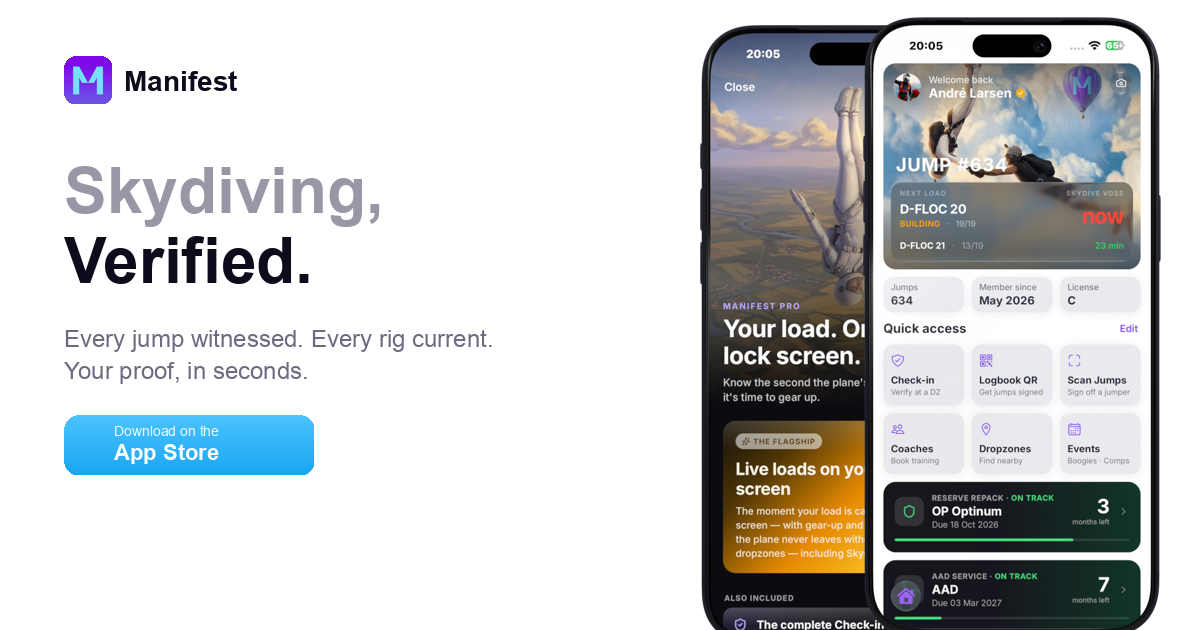
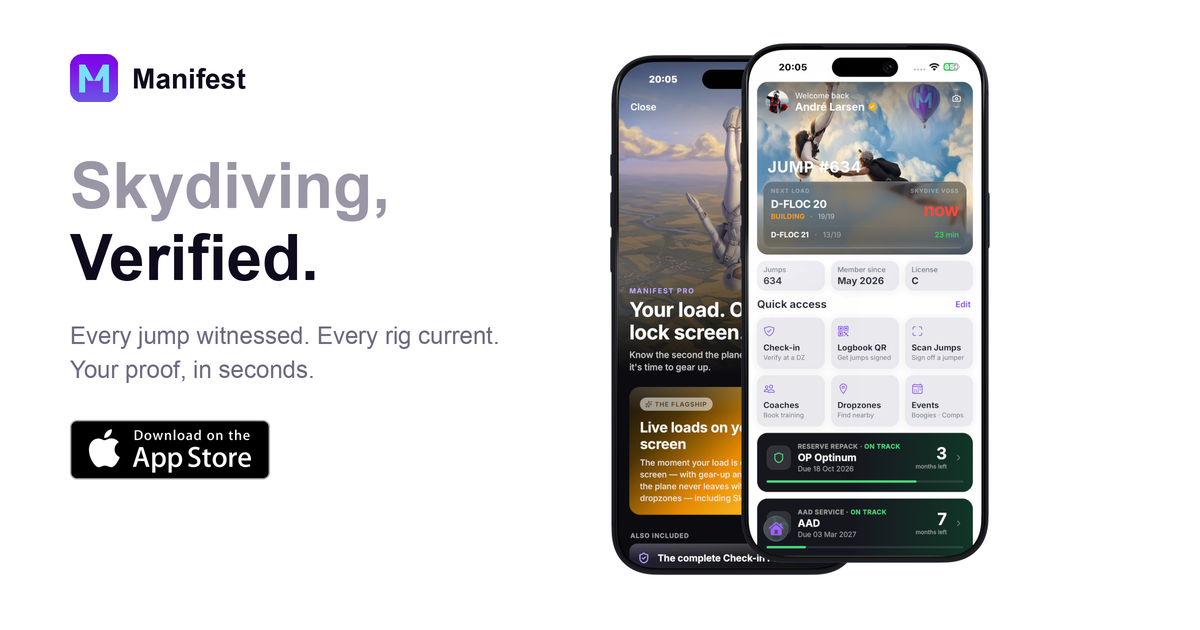
og-image: use Apple's official App Store badge, not a hand-drawn one
The previous badge was drawn in PIL with Arial — close, but not Apple's
letterforms, logo path, corner radius, or the #A6A6A6 outer border. Apple's
marketing guidelines require the supplied artwork, and the approximation read
as cheap next to real screenshots.

Now renders Apple's own SVG (checked in at assets/appstore-badge.svg) via
rsvg at 4x, downscaled with LANCZOS, native 135:40 ratio preserved. Bumped to
v=7.

diff --git a/index.html b/index.html
@@ -11,14 +11,14 @@
 <meta property="og:description" content="Every jump witnessed. Every rig current. Your proof, in seconds. Free on the App Store." />
 <meta property="og:type" content="website" />
 <meta property="og:url" content="https://www.jumpmanifest.com/" />
-<meta property="og:image" content="https://www.jumpmanifest.com/assets/og-image.png?v=6" />
+<meta property="og:image" content="https://www.jumpmanifest.com/assets/og-image.png?v=7" />
 <meta property="og:image:width" content="1200" />
 <meta property="og:image:height" content="630" />
 <meta property="og:image:alt" content="Manifest — Skydiving, Verified" />
 <meta name="twitter:card" content="summary_large_image" />
 <meta name="twitter:title" content="Manifest — Skydiving, Verified" />
 <meta name="twitter:description" content="Every jump witnessed. Every rig current. Your proof, in seconds." />
-<meta name="twitter:image" content="https://www.jumpmanifest.com/assets/og-image.png?v=6" />
+<meta name="twitter:image" content="https://www.jumpmanifest.com/assets/og-image.png?v=7" />
 <meta name="theme-color" content="#ffffff" />
 <!-- Apple Smart App Banner. iOS renders this itself, above the page, and the
      handoff to the App Store is handled by the OS rather than by a link in the
